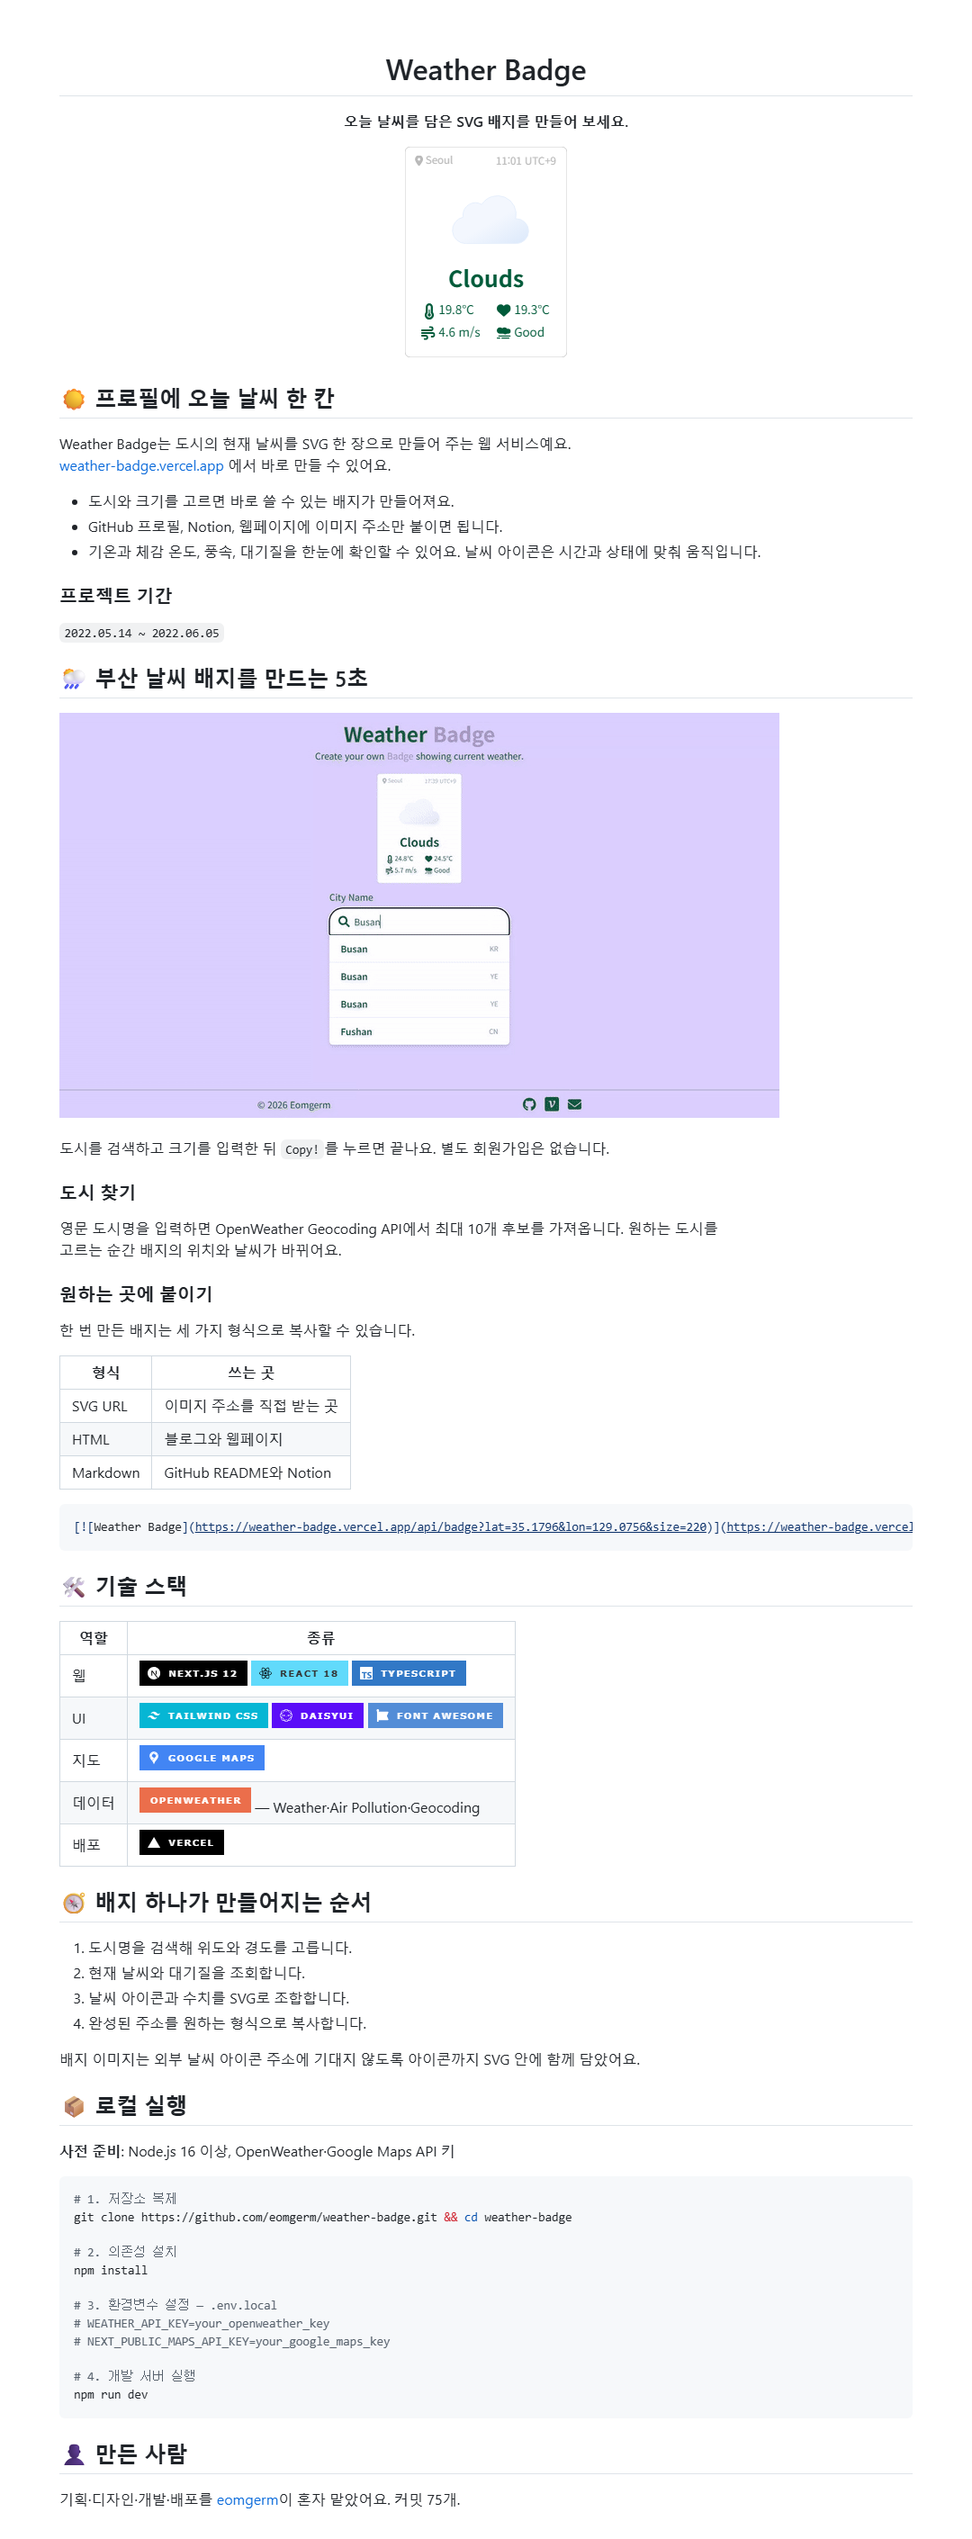
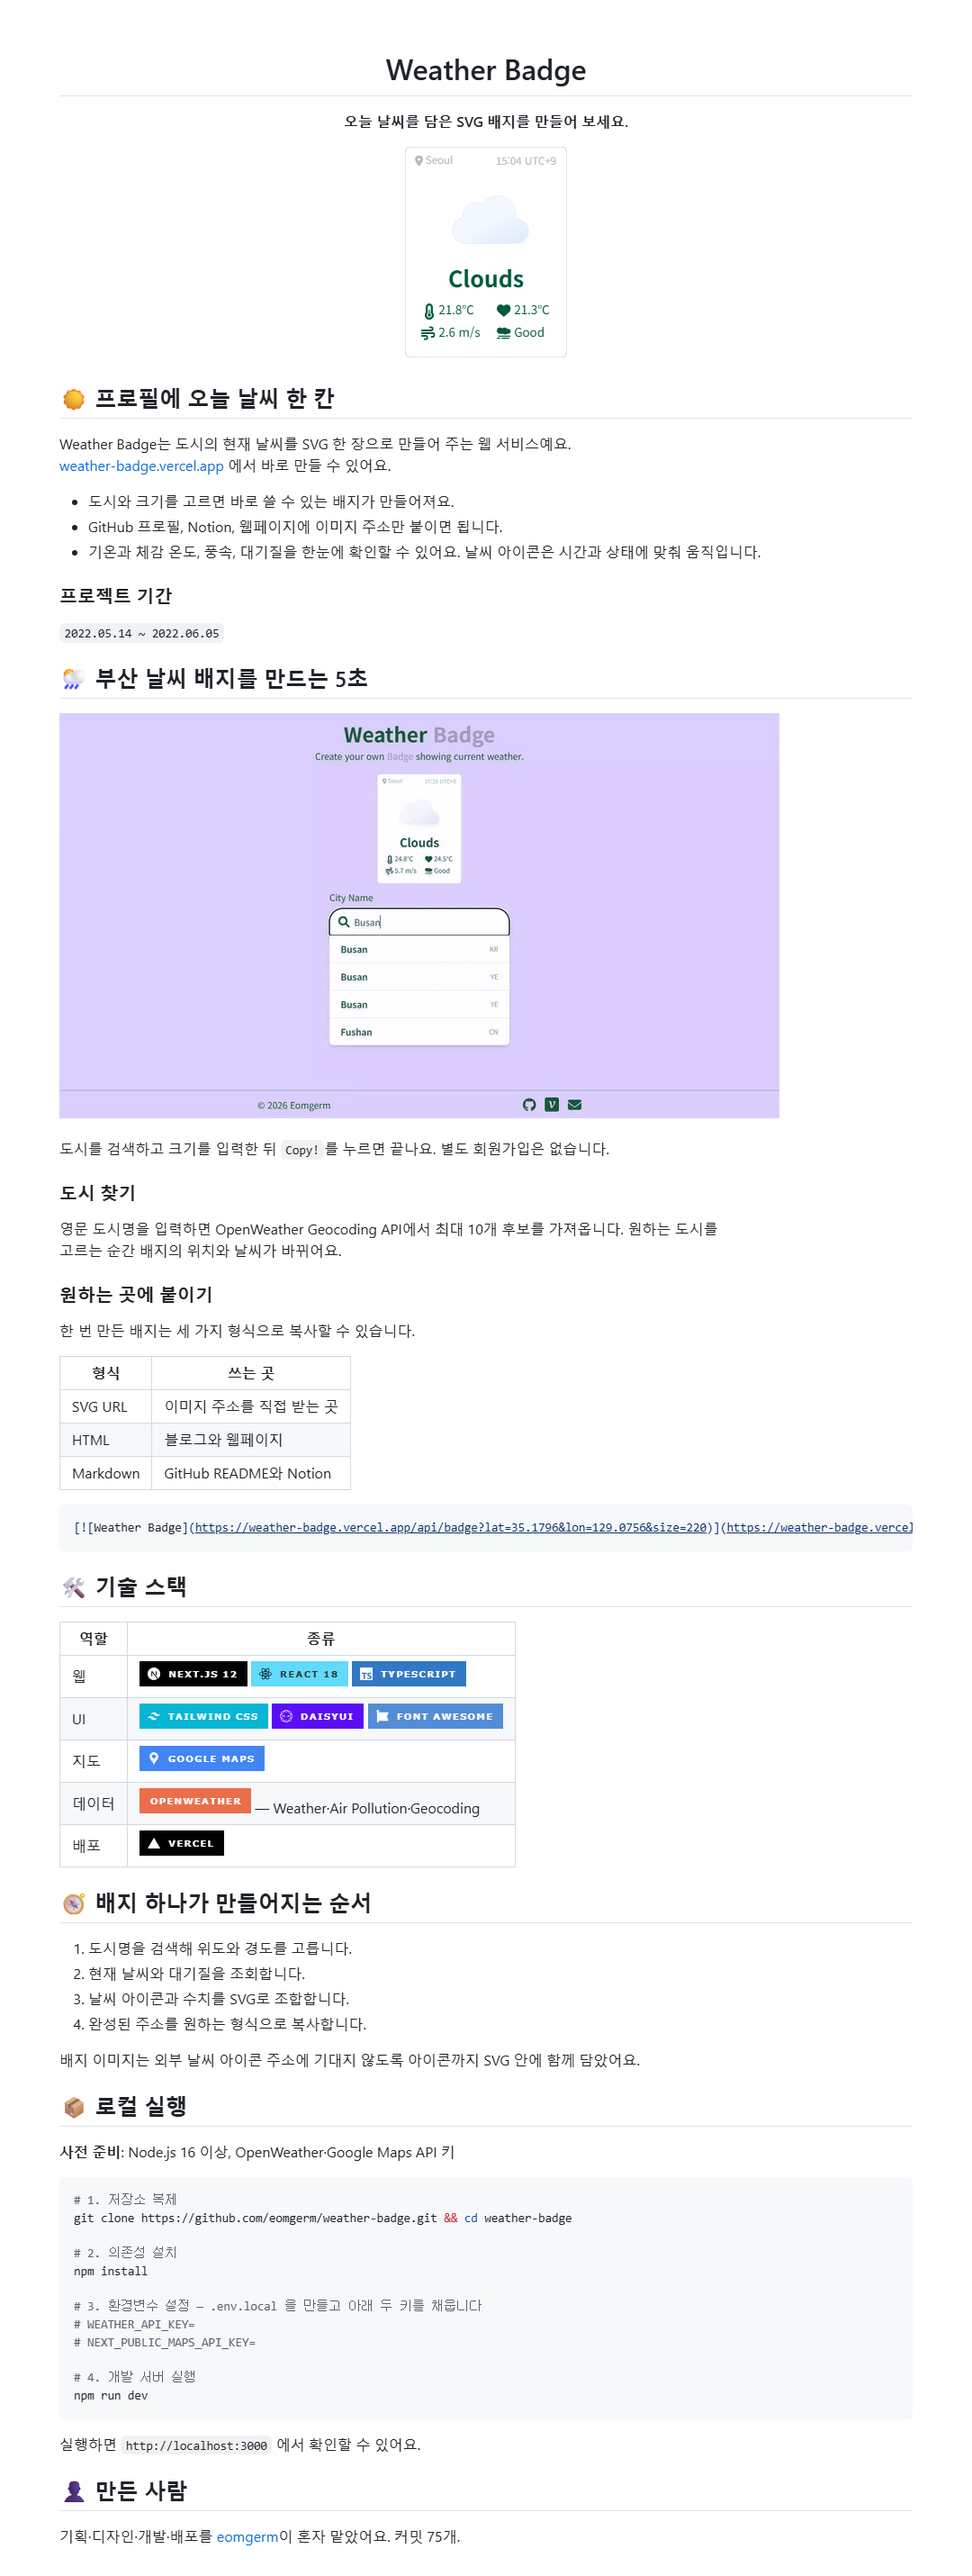
docs: 예제 두 개를 최종 스킬로 다시 만든다
예제는 3회차에 생성한 뒤 두 번 손봤을 뿐이고, 그 사이 structure.md가
여덟 번 바뀌었다. 20회차 Keep을 받은 최종 규칙으로 조건 판정부터 다시
밟아 재생성했다.

조건 판정(3단계): 서버 아님(package.json에 express·koa 없음),
앱 아님, 실행할 수 있음(scripts), API 문서 없음, CI 없음, 기여자 1명
75커밋, 기간 2022.05.14~2022.06.05. 따라서 ERD·API 명세·CI 상태 뱃지·
CI/CD 표가 꺼지고 팀원은 한 줄, 링크가 2개라 히어로 링크줄도 생략된다.

바뀐 것
- 부트캠프형에서 주요 기능을 실행 방법 뒤로 옮겼다. 조건표가 F1을
  "L3 끝"으로 규정하는데 기존 예제는 폴더 트리 뒤·실행 방법 앞이었다
- 실행 방법에 확인 주소를 넣었다. Next.js라 3000이다 (기존 템플릿의
  5173은 Vite 기본값이었고 16회차에 자리표시자로 풀렸다)
- 환경변수 단계를 18회차 규칙에 맞춰 다시 적었다. weather-badge에는
  커밋된 템플릿이 없으니 코드가 읽는 키 두 개를 주석으로 나열한다

스크린샷 2장도 다시 촬영했다.

diff --git a/examples/README.bootcamp.md b/examples/README.bootcamp.md
@@ -11,7 +11,8 @@
 ## ☁ 날씨 API 응답을 배지 한 장으로
 
 Weather Badge는 도시와 크기를 입력받아 현재 날씨, 체감 온도, 풍속과 대기질을 SVG로 조합합니다.
-서비스는 [weather-badge.vercel.app](https://weather-badge.vercel.app/) 에 배포돼 있습니다.
+서비스는 [weather-badge.vercel.app](https://weather-badge.vercel.app/) 에 배포돼 있고,
+코드는 [eomgerm/weather-badge](https://github.com/eomgerm/weather-badge) 에 있습니다.
 
 - GitHub README와 Notion에서는 생성된 URL만 이미지로 붙이면 됩니다.
 - 아이콘까지 SVG 안에 담겨 있어 배지 주소 하나로 렌더링이 끝납니다.
@@ -92,15 +93,6 @@ GitHub·Notion·Web ← SVG 조합 ← /api/badge → Weather API
 └── utils                  # 쿼리 문자열과 날씨 아이콘 매핑
 ```
 
-## 🌤 주요 기능
-
-| 기능 | 설명 |
-| --- | --- |
-| 도시 자동완성 | 영문 도시명을 검색하고 최대 10개 위치 후보 중 하나를 선택합니다. |
-| SVG 생성 | 날씨·체감 온도·풍속·대기질과 애니메이션 아이콘을 한 장에 담습니다. |
-| 크기 조절 | 쿼리의 `size` 값으로 배지 크기를 바꿉니다. |
-| 코드 복사 | SVG URL, HTML, Markdown 형식을 바로 확인합니다. |
-
 ## 📦 실행 방법
 
 **사전 준비**: Node.js 16 이상, OpenWeather·Google Maps API 키
@@ -112,13 +104,24 @@ git clone https://github.com/eomgerm/weather-badge.git && cd weather-badge
 # 2. 의존성 설치
 npm install
 
-# 3. 환경변수 설정 — .env.local
-# WEATHER_API_KEY=your_openweather_key
-# NEXT_PUBLIC_MAPS_API_KEY=your_google_maps_key
+# 3. 환경변수 설정 — .env.local 을 만들고 아래 두 키를 채웁니다
+# WEATHER_API_KEY=
+# NEXT_PUBLIC_MAPS_API_KEY=
 
 # 4. 개발 서버 실행
 npm run dev
 ```
+
+실행하면 `http://localhost:3000` 에서 확인할 수 있습니다.
+
+## 🌤 주요 기능
+
+| 기능 | 설명 |
+| --- | --- |
+| 도시 자동완성 | 영문 도시명을 검색하고 최대 10개 위치 후보 중 하나를 선택합니다. |
+| SVG 생성 | 날씨·체감 온도·풍속·대기질과 애니메이션 아이콘을 한 장에 담습니다. |
+| 크기 조절 | 쿼리의 `size` 값으로 배지 크기를 바꿉니다. |
+| 코드 복사 | SVG URL, HTML, Markdown 형식을 바로 확인합니다. |
 
 ## 👤 만든 사람
 

diff --git a/examples/README.club.md b/examples/README.club.md
@@ -74,13 +74,15 @@ git clone https://github.com/eomgerm/weather-badge.git && cd weather-badge
 # 2. 의존성 설치
 npm install
 
-# 3. 환경변수 설정 — .env.local
-# WEATHER_API_KEY=your_openweather_key
-# NEXT_PUBLIC_MAPS_API_KEY=your_google_maps_key
+# 3. 환경변수 설정 — .env.local 을 만들고 아래 두 키를 채웁니다
+# WEATHER_API_KEY=
+# NEXT_PUBLIC_MAPS_API_KEY=
 
 # 4. 개발 서버 실행
 npm run dev
 ```
+
+실행하면 `http://localhost:3000` 에서 확인할 수 있어요.
 
 ## 👤 만든 사람
 
